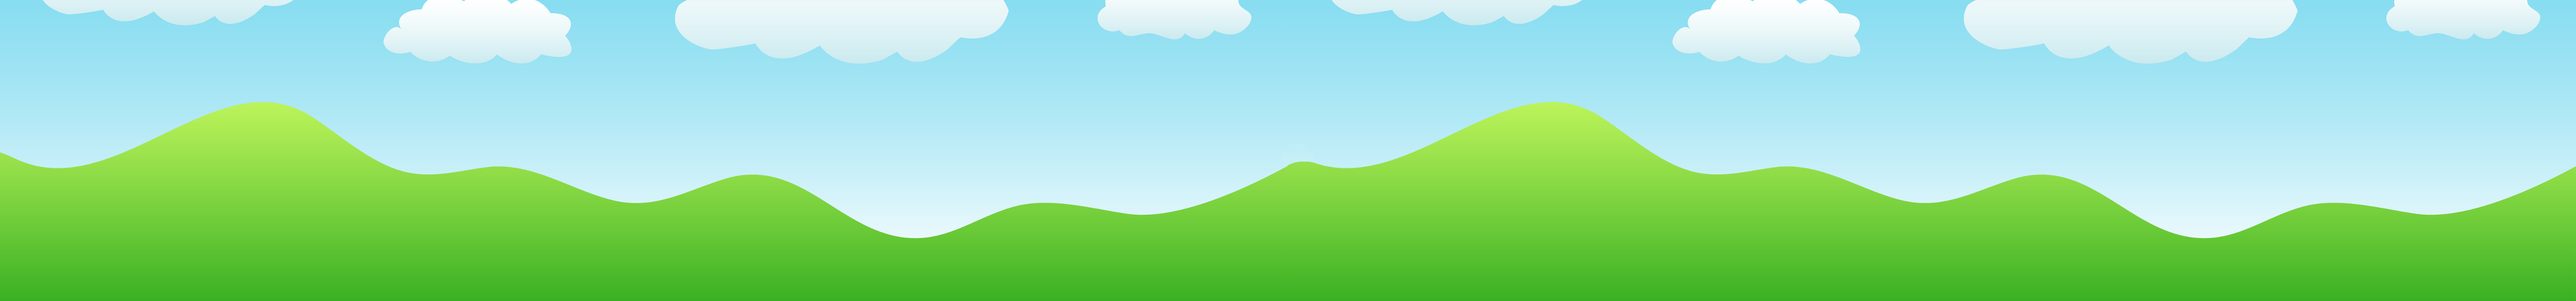
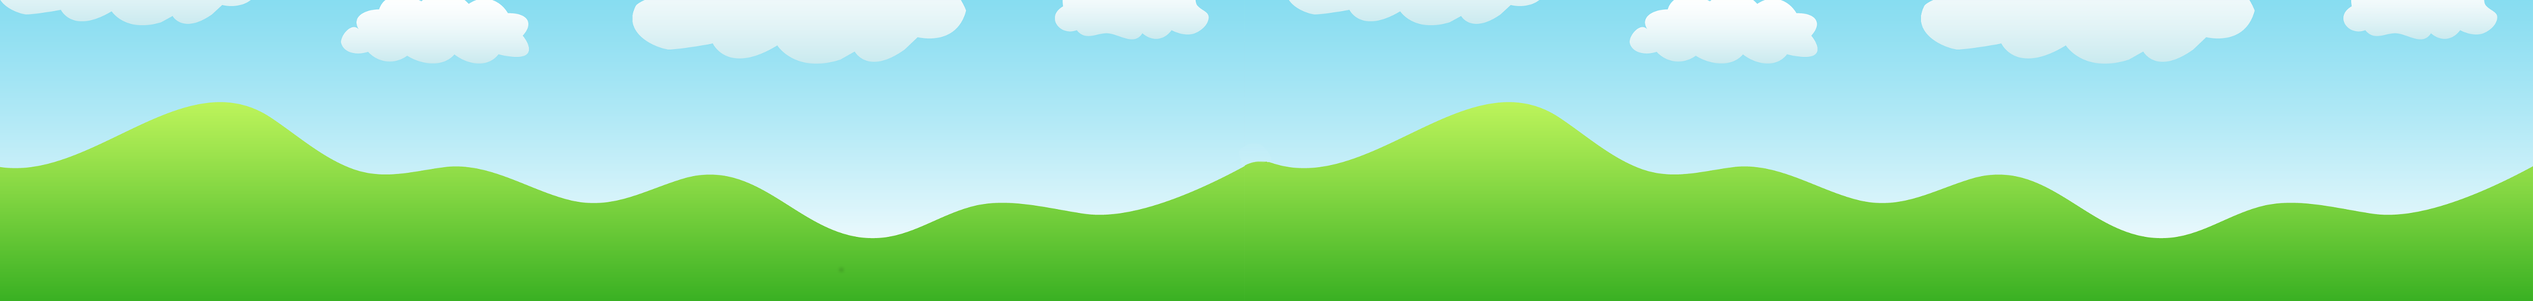
HighScore system added, background image syncronised with px width

diff --git a/src/otterhopper/Game.java b/src/otterhopper/Game.java
@@ -7,7 +7,13 @@ import java.awt.event.KeyListener;
 import resources.*;
 
 import java.awt.image.BufferedImage;
+import java.io.BufferedReader;
+import java.io.FileInputStream;
+import java.io.FileReader;
 import java.io.IOException;
+import java.io.PrintWriter;
+import java.io.Reader;
+import java.nio.CharBuffer;
 import java.sql.Time;
 import java.util.ArrayList;
 import java.util.Date;
@@ -22,6 +28,9 @@ public class Game extends JPanel {
     public boolean inGame = false; // In Menus or game? Default to Menus (false)
     public boolean loading = true; // Controls drawing
     private int score = 0; // How many jumps did he make? ++1
+    private int highScore;
+    private String highScoreFile = "highScore.txt";
+    public boolean highScoreNotification = false;
     private int difficulty = 100;
     private long treeTimer = 1;
     private long enemyTimer = 1;
@@ -50,6 +59,7 @@ public class Game extends JPanel {
         return true;
     }
     public void newGame() {
+        readHighScore();
         r.setScale( r.images.get(1).getHeight() / getHeight());
         //System.out.println("Scale = " + r.getScale());
         //Initiate Background image
@@ -73,11 +83,42 @@ public class Game extends JPanel {
         startGameLoop();
     }
     public void endGame() {
+        if (score > getHighScore()) {
+            saveHighScore(score);
+            highScore = score;
+            highScoreNotification = true;
+        }
+        
         this.inGame = false;
         this.waitingForKeyPress = true;
         this.difficulty = 100;
         this.score = 0;
         this.r.enemies.clear();
+    }
+    public void readHighScore() {
+        try (
+                FileReader fr = new FileReader(highScoreFile);
+        ) {
+            StringBuilder sb = new StringBuilder();
+            int tmp = fr.read();
+            while (tmp != -1) {
+                sb.append((char) tmp);
+                tmp = fr.read();
+            }
+            highScore = new Integer(sb.toString());
+        } catch (IOException e) {
+           System.out.println("File Not Found: " + e);
+        }
+    }
+    public void saveHighScore(int Score) {
+        try {
+            PrintWriter pr = new PrintWriter(highScoreFile);    
+            pr.print(Score);
+            pr.close();
+        } catch (Exception e){
+            e.printStackTrace();
+            System.out.println("No such file exists.");
+        }
     }
     public void startGameLoop() {
         // 
@@ -129,6 +170,7 @@ public class Game extends JPanel {
     public void updateGame(double delta, long timeSinceLastLoop) {
         //Move Background slowly left
         r.bg.setPosX(r.bg.getPosX()+(r.bg.getSpeed()*delta));
+        if (r.bg.getPosX() >= 2308) r.bg.setPosX(0);
         // Only add trees and enemies if in game
         if (inGame) {
             //Add tree's every now and then
@@ -163,7 +205,7 @@ public class Game extends JPanel {
                 )
                 );
                 enemyTimer = 0;
-                enemyRnd = rnd.nextInt(100) + difficulty;
+                enemyRnd = rnd.nextInt(50) + difficulty;
                 difficulty--;
             } else {
                 enemyTimer += timeSinceLastLoop * delta;
@@ -209,7 +251,7 @@ public class Game extends JPanel {
                 //                int x, int y, int r, int b
                 if (r.player.collides(e.getPosX(), e.getPosY(), 
                     e.getPosX() + e.width, e.getPosY() + e.height)) {
-                    System.out.println("Collision");
+                    //System.out.println("Collision");
                     endGame();
                     break;
                 }
@@ -224,7 +266,6 @@ public class Game extends JPanel {
         if (r.images.size() == r.imagesToLoad.length) {
             super.paint(g);
             //Draw Background
-            if (r.bg.getPosX() >= 1920) r.bg.setPosX(0);
             BufferedImage bgSub = r.bg.getImg().getSubimage(
                     r.bg.getPosX(),
                     0,
@@ -244,13 +285,13 @@ public class Game extends JPanel {
                 );
             }
             //Draw Enemies
-            for (Enemy fence : r.enemies){
+            for (Enemy enemy : r.enemies){
                 g2d.drawImage(
-                        fence.getImg(),
-                        fence.getPosX(),
-                        fence.getPosY(),
-                        fence.getWidth(),
-                        fence.getHeight(),
+                        enemy.getImg(),
+                        enemy.getPosX(),
+                        enemy.getPosY(),
+                        enemy.getWidth(),
+                        enemy.getHeight(),
                         this
                 );
             }
@@ -270,16 +311,25 @@ public class Game extends JPanel {
                     this
             );
             //Draw menu overlay if in menu... Obvious really!?
-            g2d.setFont(new Font("Helvetica", Font.PLAIN, 50));
+            g2d.setFont(new Font("Helvetica", Font.PLAIN, 35));
             if (!inGame) {
                 g2d.setColor(r.menuOverlayBg);
                 g2d.fillRect(0 , 0 , getWidth(), getHeight());
                 g2d.setColor(Color.ORANGE);
                 g2d.drawString("Press any key to start game", 50, 50);
-                g2d.drawString("Press ESC to pause / cheat", 50, 100);
+                
+                if (highScoreNotification) {
+                    g2d.drawString("Congratulations, you got a new high score: " + highScore, 50, (int) (this.getHeight() /2));
+                } else {
+                    g2d.drawString("Current High Score is: " + highScore, 50, 100);
+                }
+            } else { // Draw current score in Game
+                g2d.setColor(Color.ORANGE);
+                g2d.drawString("Score: " + new Integer(score).toString(), (int) (this.getWidth()*0.1), 50);
             }
-            g2d.setColor(Color.ORANGE);
-            g2d.drawString(new Integer(score).toString(), (int) (this.getWidth()*0.9), 50);
         }
+    }
+    public int getHighScore() {
+        return highScore;
     }
 }

diff --git a/src/otterhopper/Main.java b/src/otterhopper/Main.java
@@ -14,7 +14,7 @@ public class Main {
     
     public static void main(String[] args) {
         //Frame setup
-        System.out.println("FrameSetup Start");
+        //System.out.println("FrameSetup Start");
         frame = new JFrame("OtterHopper"); // Create Windows for game
         frame.setPreferredSize(new Dimension(width, height));
         frame.setResizable(true);
@@ -26,17 +26,17 @@ public class Main {
         //Pack window
         frame.pack();
         frame.setVisible(true);
-        System.out.println("FrameSetup Finish");
+        //System.out.println("FrameSetup Finish");
 
         //If resources load successfully - start game loop
-        System.out.println("LoadResources Start");
+        //System.out.println("LoadResources Start");
         game.add(game.r.lb, BorderLayout.PAGE_END);
         if (game.loadResources()) { // Resources loaded if true
             game.loading = false;
             game.remove(game.r.lb);
-            System.out.println("LoadResources Finish");
+            //System.out.println("LoadResources Finish");
             //Sets up and starts game
-            System.out.println("NewGame Start");
+            //System.out.println("NewGame Start");
             
             k  = new UserInput(game);
             if (!frame.isFocusable()) {
@@ -46,7 +46,7 @@ public class Main {
             frame.setFocusTraversalKeysEnabled(false);
 
             game.newGame();
-            System.out.println("NewGame Finish");
+            //System.out.println("NewGame Finish");
             //System.exit(0);
         }
         else { // Else Error message

diff --git a/src/resources/UserInput.java b/src/resources/UserInput.java
@@ -24,6 +24,7 @@ public class UserInput extends KeyAdapter{
             if (g.waitingForKeyPress) {
                 g.waitingForKeyPress = false;
                 g.inGame = true;
+                g.highScoreNotification = false;
             }
             if (e.getKeyChar() == ' ') {
                 if (g.r.player.getOnGround()) {
@@ -31,9 +32,8 @@ public class UserInput extends KeyAdapter{
                 }
             }
             if (e.getKeyChar() == 27) { // Escape key exits game
-                g.inGame = false; 
-                g.waitingForKeyPress = true;
-                //System.exit(0);
+                //g.endGame();
+                System.exit(0);
             }
     }
 }

diff --git a/src/resources/Sprite.java b/src/resources/Sprite.java
@@ -21,8 +21,8 @@ public class Sprite extends ImageIcon {
     }
     //Collision detection
     public boolean collides(int x, int y, int r, int b) {
-        int adjX = 50;
-        int adjY = 25;
+        int adjX = 5;
+        int adjY = 5;
         boolean result = !(
                 r <= this.posX + adjX || 
                 x > this.posX + this.width - adjX || 

diff --git a/src/resources/resources.java b/src/resources/resources.java
@@ -30,7 +30,7 @@ public class resources {
     //Vars
     private int loadPercentageComplete = 0;
     private double scale;
-    public Color menuOverlayBg = new Color(140, 150, 150, 185 );
+    public Color menuOverlayBg = new Color(140, 150, 150, 150 );
 
     public void loadImage(String imgPath) throws IOException {
         try {
